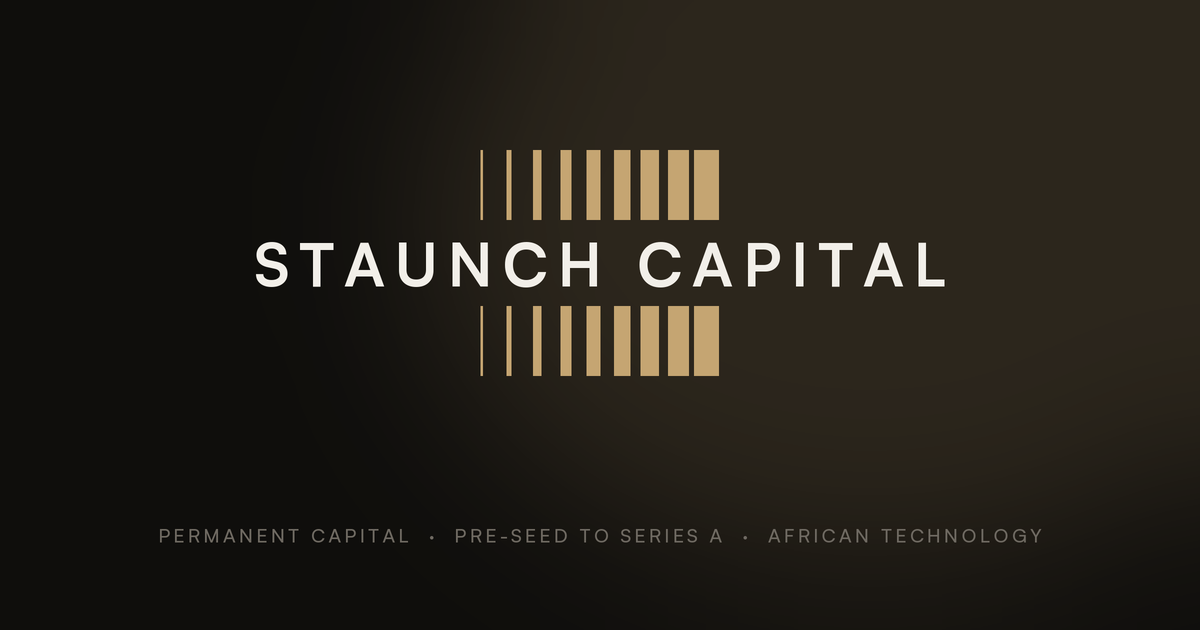
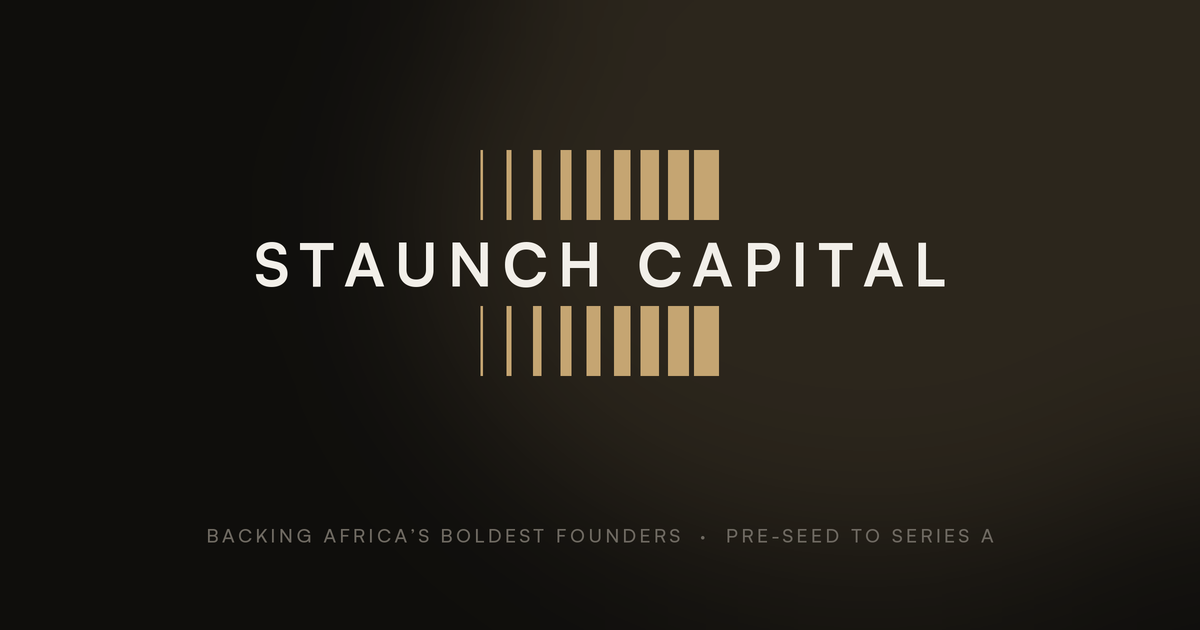
Lead Staunch Capital's title and share image with the founders, not the PCV
The page was repositioned around backing Africa's boldest founders, but the
browser title, description and link preview still led with "permanent
capital".

Changed region(s): [[0.1233, 0.8143, 0.8633, 0.8746]]

diff --git a/src/app/capital/layout.tsx b/src/app/capital/layout.tsx
@@ -28,9 +28,9 @@ const cormorant = Cormorant_Garamond({
   display: "swap",
 });
 
-const title = "Staunch Capital: Permanent capital for African technology";
+const title = "Staunch Capital: Backing Africa's boldest founders";
 const description =
-  "A permanent capital vehicle investing $100k–$400k into African technology startups from Pre-Seed through Series A. The first fund from Staunch.";
+  "Staunch Capital invests $100k–$400k in disruptive African technology companies from Pre-Seed through Series A, bringing foreign and domestic capital to Africa's boldest founders.";
 
 export const metadata: Metadata = {
   metadataBase: new URL("https://capital.staunchventures.com"),
